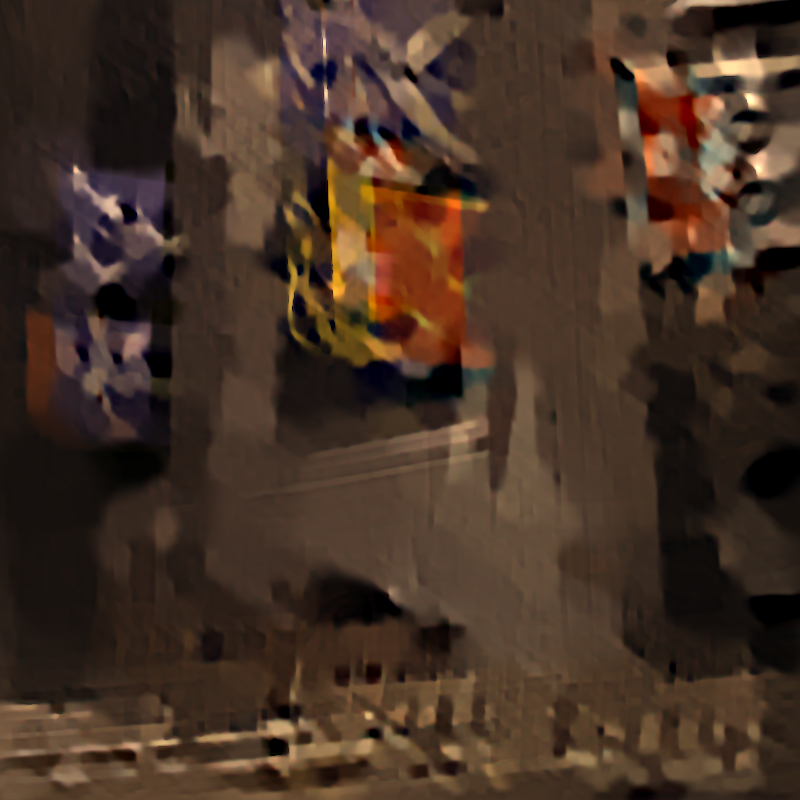
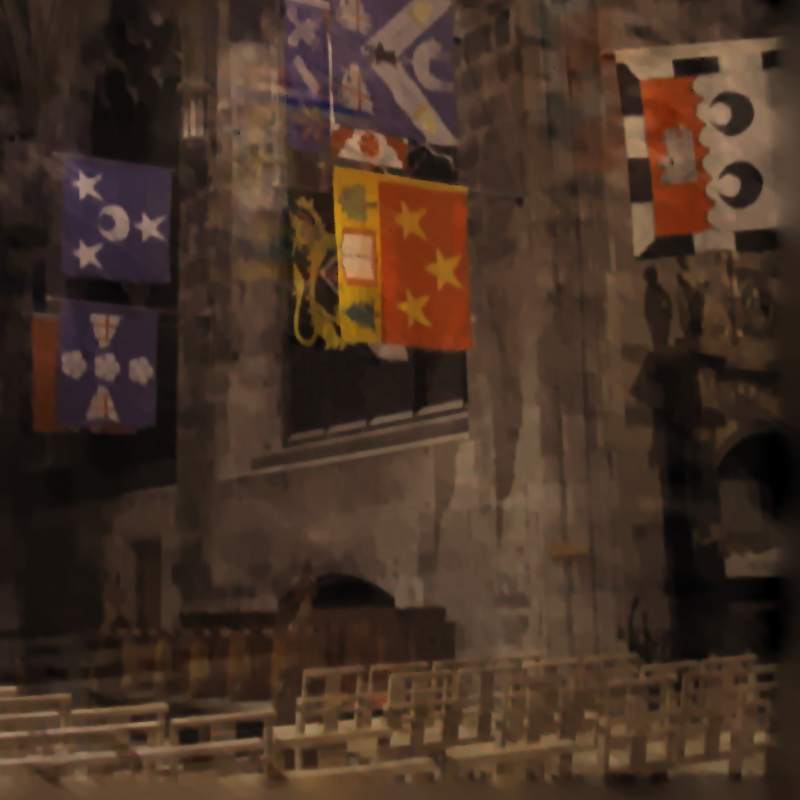
lots of data generating

diff --git a/Image Deblurring With Phase and Dark Channels/demo_deblurring.py b/Image Deblurring With Phase and Dark Channels/demo_deblurring.py
@@ -16,7 +16,7 @@ from metrics import psnr
 def main():
     # Specify your input image file path
    
-    image_path = 'images/blurry1_9.png'
+    image_path = 'images/blurry2_8.png'
     # print()
     # Create the results directory if it doesn't exist
     results_dir = 'results'
@@ -31,16 +31,17 @@ def main():
         'xk_iter': 5,    # Iterations
         'gamma_correct': 1.0,
         'k_thresh': 20,
-        'kernel_size':159,
+        'kernel_size':121,
     }
 
     lambda_dark = 4e-3
     #Experimenting with lambda_dark set to 0
-    lambda_ftr = 4e-3
+    lambda_ftr = 4e-1
     lambda_dark = 0
-    lambda_grad = 9e-3
-    lambda_tv = 0.003
-    lambda_l0 = 5e-4
+    lambda_grad = 4e-3
+    lambda_tv = 0.0035
+    # lambda_l0 = 5e-4
+    lambda_l0 = 3e-4
     weight_ring = 1
     is_select = False  # Set to True if you want to select a specific area for deblurring
 
@@ -85,9 +86,16 @@ def main():
     Latent = Latent.numpy()
     Latent = Latent.astype('uint8')
     Latent = Image.fromarray(Latent)
-    Latent.save(os.path.join(results_dir, f'Radi1_9.png'))
+    Latent.save(os.path.join(results_dir, f'Radi2_8.png'))
 
-    
+    kmn = kernel.min()
+    kmx = kernel.max()
+    kernel = (kernel - kmn)/(kmx - kmn)
+    kernel = kernel*255.0
+    kernel = kernel.numpy()
+    kernel = kernel.astype('uint8')
+    kernel = Image.fromarray(kernel)
+    kernel.save(os.path.join(results_dir, f'Radi2_8_kernel.png'))    
     # Lmx = Latent.max()
     # Lmn = Latent.min()
     # Latent = (Latent - Lmn)/(Lmx - Lmn)

diff --git a/Image Deblurring With Phase and Dark Channels/L0Deblur_FTR.py b/Image Deblurring With Phase and Dark Channels/L0Deblur_FTR.py
@@ -51,7 +51,7 @@ def L0Deblur_FTR(Im, kernel, lambda_, wei_grad,kappa=2.0):
     # print(Normin1.shape)
     #Hyperparamters to TUNE
     alpha = lambda_
-    alpha_max = .3
+    alpha_max = .1
     mu = 0.004
     # wei_grad = 0.004
     while alpha < alpha_max:

diff --git a/Image Deblurring With Phase and Dark Channels/misc.py b/Image Deblurring With Phase and Dark Channels/misc.py
@@ -265,7 +265,7 @@ def findM(I):
     criterion = torch.nn.MSELoss()
 
     # Set up an optimizer
-    optimizer = torch.optim.SGD([L.requires_grad_()], lr=0.1)
+    optimizer = torch.optim.SGD([L.requires_grad_()], lr=.5)
 
     num_steps = 100
 
